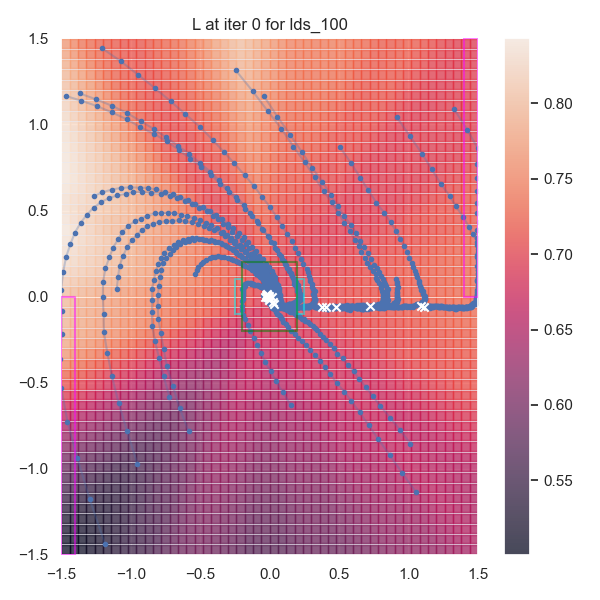
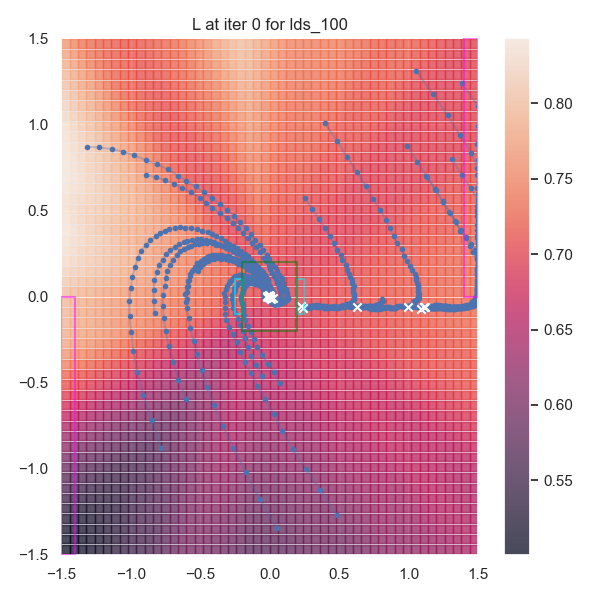
double-looped epochs

diff --git a/run.py b/run.py
@@ -39,8 +39,10 @@ parser.add_argument('--ppo_num_minibatches', type=int, default=32,
 ### LEARNER ARGUMENTS
 parser.add_argument('--cegis_iterations', type=int, default=100,
                     help="Number of CEGIS iteration to run")
-parser.add_argument('--epochs', type=int, default=1000,
+parser.add_argument('--epochs', type=int, default=200,
                     help="Number of epochs to run in each iteration")
+parser.add_argument('--batches', type=int, default=-1,
+                    help="Number of batches to run in each epoch (-1 means iterate over the full train dataset once)")
 parser.add_argument('--batch_size', type=int, default=4096,
                     help="Batch size used by the learner in each epoch")
 parser.add_argument('--probability_bound', type=float, default=0.8,
@@ -55,8 +57,10 @@ parser.add_argument('--verify_mesh_tau', type=float, default=0.01,
                     help="Initial verification grid mesh size. Mesh is defined such that |x-y|_1 <= tau for any x \in X and discretized point y.")
 parser.add_argument('--verify_mesh_tau_min', type=float, default=0.001,
                     help="Lowest allowed verification grid mesh size")
-parser.add_argument('--refresh_fraction_counterx', type=float, default=0.5,
+parser.add_argument('--counterx_refresh_fraction', type=float, default=0.25,
                     help="Fraction of the counter example buffer to renew after each iteration")
+parser.add_argument('--counterx_fraction', type=float, default=0.25,
+                    help="Fraction of counter examples, compared to the total train data set.")
 
 ###
 parser.add_argument('--update_certificate', type=bool, default=True,
@@ -177,8 +181,9 @@ initial_train_grid = define_grid(env.observation_space.low + 0.5 * args.train_me
 train_buffer.append(initial_train_grid)
 
 # Set counterexample buffer
-counterx_buffer = Buffer(dim = env.observation_space.shape[0])
-counterx_buffer.append_and_remove(refresh_fraction=0.0, samples=initial_train_grid, buffer_size=30000)
+args.counterx_buffer_size = len(initial_train_grid) * args.counterx_fraction / (1-args.counterx_fraction)
+counterx_buffer = Buffer(dim = env.observation_space.shape[0], max_size = args.counterx_buffer_size)
+counterx_buffer.append_and_remove(refresh_fraction=0.0, samples=initial_train_grid)
 
 # Set verify gridding, which covers the complete state space with the specified `tau` (mesh size)
 num_per_dimension_verify = np.array(
@@ -212,36 +217,47 @@ for i in range(args.cegis_iterations):
     filename = f"plots/data_{start_datetime}_iteration={i}"
     plot_layout(env, train_buffer.data, counterx_buffer.data, folder=args.cwd, filename=filename)
 
+    if args.batches == -1:
+        # Automatically determine number of batches
+        num_batches = int(np.ceil((len(train_buffer.data) + len(counterx_buffer.data)) / args.batch_size))
+    else:
+        # Use given number of batches
+        num_batches = args.batches
+
+    fraction_counterx = len(counterx_buffer.data) / (len(train_buffer.data) + len(counterx_buffer.data))
+
     # Determine datasets for current iteration and put into batches
     # TODO: Currently, each batch consists of N randomly selected samples. Look into better ways to batch the data.
     C = format_training_data(env, train_buffer.data)
     C['decrease'] = train_buffer.data
     key, batch_C_decrease, batch_C_init, batch_C_unsafe, batch_C_target = batch_training_data(key, C,
-                                                             len(train_buffer.data), args.epochs, 0.75 * args.batch_size)
+                                                             len(train_buffer.data), num_batches, (1-fraction_counterx) * args.batch_size)
 
     X = format_training_data(env, counterx_buffer.data)
     key, batch_X_decrease, batch_X_init, batch_X_unsafe, batch_X_target = batch_training_data(key, X,
-                                                             len(counterx_buffer.data), args.epochs, 0.25 * args.batch_size)
+                                                             len(counterx_buffer.data), num_batches, fraction_counterx * args.batch_size)
 
     decrease_eps = np.vstack((np.zeros(len(batch_C_decrease)), 0.1*np.ones(len(batch_X_decrease))))
 
     for j in range(args.epochs):
-        # Main train step function: Defines one loss function for the provided batch of train data and mimizes it
-        V_grads, Policy_grads, infos, key, diff = learn.train_step(
-            key = key,
-            V_state = V_state,
-            Policy_state = Policy_state,
-            C_decrease = np.vstack((batch_C_decrease[j], batch_X_decrease[j])),
-            C_init = np.vstack((batch_C_init[j], batch_X_init[j])),
-            C_unsafe = np.vstack((batch_C_unsafe[j], batch_X_unsafe[j])),
-            C_target = np.vstack((batch_C_target[j], batch_X_target[j])),
-            decrease_eps = decrease_eps)
+        for k in range(num_batches):
 
-        # Update parameters
-        if args.update_certificate:
-            V_state = V_state.apply_gradients(grads=V_grads)
-        if args.update_policy:
-            Policy_state = Policy_state.apply_gradients(grads=Policy_grads)
+            # Main train step function: Defines one loss function for the provided batch of train data and minimizes it
+            V_grads, Policy_grads, infos, key, diff = learn.train_step(
+                key = key,
+                V_state = V_state,
+                Policy_state = Policy_state,
+                C_decrease = np.vstack((batch_C_decrease[k], batch_X_decrease[k])),
+                C_init = np.vstack((batch_C_init[k], batch_X_init[k])),
+                C_unsafe = np.vstack((batch_C_unsafe[k], batch_X_unsafe[k])),
+                C_target = np.vstack((batch_C_target[k], batch_X_target[k])),
+                decrease_eps = decrease_eps)
+
+            # Update parameters
+            if args.update_certificate:
+                V_state = V_state.apply_gradients(grads=V_grads)
+            if args.update_policy:
+                Policy_state = Policy_state.apply_gradients(grads=Policy_grads)
 
         if j % 100 == 0:
             lip_policy = lipschitz_coeff_l1(Policy_state.params)
@@ -279,11 +295,11 @@ for i in range(args.cegis_iterations):
 
     # Add counterexamples to the counterexample buffer
     if i > 0:
-        counterx_buffer.append_and_remove(refresh_fraction=args.refresh_fraction_counterx,
-                                          samples=samples_to_add, buffer_size=30000)
+        counterx_buffer.append_and_remove(refresh_fraction=args.counterx_refresh_fraction,
+                                          samples=samples_to_add)
     else:
-        counterx_buffer.append_and_remove(refresh_fraction=args.refresh_fraction_counterx,
-                                          samples=samples_to_add, buffer_size=30000)
+        counterx_buffer.append_and_remove(refresh_fraction=1,
+                                          samples=samples_to_add)
 
     # Refine mesh and discretization
     args.verify_mesh_tau = np.maximum(0.75 * args.verify_mesh_tau, args.verify_mesh_tau_min)

diff --git a/learner_reachavoid.py b/learner_reachavoid.py
@@ -36,7 +36,7 @@ class Buffer:
             append_samples = np.array(samples, dtype=np.float32)
             self.data = np.vstack((self.data, append_samples), dtype=np.float32)
 
-    def append_and_remove(self, refresh_fraction, samples, buffer_size):
+    def append_and_remove(self, refresh_fraction, samples):
         '''
         Removes a given fraction of the training buffer and appends the given samples
 
@@ -50,7 +50,7 @@ class Buffer:
 
         # Determine how many old and new samples are kept in the buffer
         nr_old = int((1-refresh_fraction) * len(self.data))
-        nr_new = int(buffer_size - nr_old)
+        nr_new = int(self.max_size - nr_old)
 
         old_idxs = np.random.choice(len(self.data), nr_old, replace=False)
         if nr_new <= len(samples):
